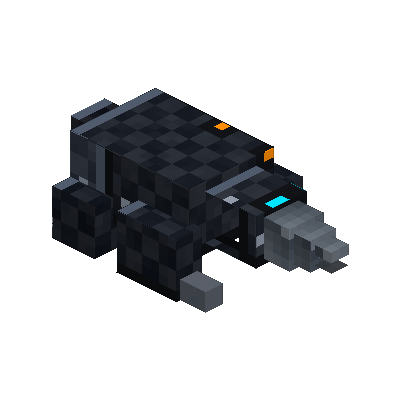
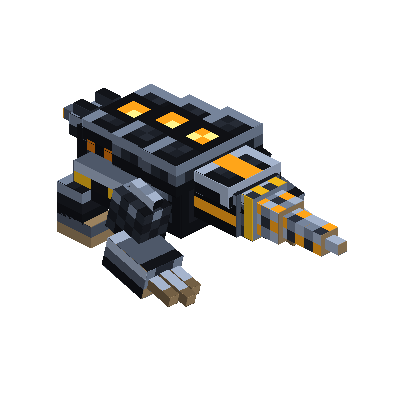
feat: bump version to 1.19.107, refactor Cyber Mole model and 128x128 texture, add animated GIF to README, and add gallery folder

Changed region(s): [[0.12, 0.21, 0.87, 0.78]]

diff --git a/src/client/java/com/fhfelipefh/sandstorm/client/renderer/CyberMoleModel.java b/src/client/java/com/fhfelipefh/sandstorm/client/renderer/CyberMoleModel.java
@@ -3,7 +3,6 @@ package com.fhfelipefh.sandstorm.client.renderer;
 import net.minecraft.client.model.EntityModel;
 import net.minecraft.client.model.geom.ModelPart;
 import net.minecraft.client.model.geom.PartPose;
-import net.minecraft.client.model.geom.builders.CubeDeformation;
 import net.minecraft.client.model.geom.builders.CubeListBuilder;
 import net.minecraft.client.model.geom.builders.LayerDefinition;
 import net.minecraft.client.model.geom.builders.MeshDefinition;
@@ -39,44 +38,65 @@ public class CyberMoleModel extends EntityModel<CyberMoleRenderState> {
         PartDefinition root = mesh.getRoot();
 
         PartDefinition body = root.addOrReplaceChild("body", CubeListBuilder.create()
-                .texOffs(0, 0).addBox(-5.0f, -4.0f, -7.0f, 10.0f, 7.0f, 14.0f)
-                .texOffs(0, 21).addBox(-5.2f, -5.5f, -6.5f, 10.4f, 2.0f, 13.0f, new CubeDeformation(0.1f)),
+                .texOffs(0, 0).addBox(-4.0f, -3.0f, -6.0f, 8.0f, 6.0f, 12.0f)
+                .texOffs(0, 19).addBox(-5.0f, -4.5f, -6.5f, 10.0f, 3.0f, 4.0f)
+                .texOffs(0, 27).addBox(-4.5f, -4.2f, -2.5f, 9.0f, 3.0f, 4.0f)
+                .texOffs(0, 35).addBox(-4.0f, -3.8f, 1.5f, 8.0f, 2.0f, 4.0f)
+                .texOffs(0, 42).addBox(4.0f, -1.0f, -4.5f, 2.0f, 3.0f, 9.0f)
+                .texOffs(0, 55).addBox(-6.0f, -1.0f, -4.5f, 2.0f, 3.0f, 9.0f)
+                .texOffs(0, 68).addBox(-3.0f, 2.8f, -5.0f, 6.0f, 1.0f, 10.0f),
                 PartPose.offset(0.0f, 18.0f, 0.0f));
 
         PartDefinition head = body.addOrReplaceChild("head", CubeListBuilder.create()
-                .texOffs(34, 0).addBox(-3.0f, -2.5f, -6.0f, 6.0f, 5.0f, 6.0f)
-                .texOffs(34, 11).addBox(-3.2f, -3.2f, -5.5f, 6.4f, 2.0f, 4.0f, new CubeDeformation(0.08f)),
-                PartPose.offset(0.0f, -0.5f, -7.0f));
+                .texOffs(42, 0).addBox(-2.5f, -2.0f, -5.0f, 5.0f, 4.0f, 5.0f)
+                .texOffs(42, 10).addBox(-3.0f, -2.8f, -4.6f, 6.0f, 2.0f, 4.0f)
+                .texOffs(42, 17).addBox(-2.0f, -1.2f, -5.4f, 4.0f, 1.0f, 1.0f)
+                .texOffs(42, 20).addBox(-2.0f, -2.0f, -6.4f, 4.0f, 4.0f, 2.0f),
+                PartPose.offset(0.0f, -0.5f, -6.0f));
 
         head.addOrReplaceChild("drill", CubeListBuilder.create()
-                .texOffs(48, 21).addBox(-2.0f, -2.0f, -3.0f, 4.0f, 4.0f, 3.0f)
-                .texOffs(50, 28).addBox(-1.5f, -1.5f, -5.0f, 3.0f, 3.0f, 2.0f)
-                .texOffs(52, 33).addBox(-1.0f, -1.0f, -7.0f, 2.0f, 2.0f, 2.0f),
-                PartPose.offset(0.0f, 0.0f, -6.0f));
+                .texOffs(64, 0).addBox(-1.5f, -1.5f, -2.5f, 3.0f, 3.0f, 3.0f)
+                .texOffs(64, 7).addBox(-1.0f, -1.0f, -5.0f, 2.0f, 2.0f, 3.0f)
+                .texOffs(64, 13).addBox(-1.0f, -1.0f, -7.0f, 2.0f, 2.0f, 2.0f)
+                .texOffs(64, 18).addBox(-0.5f, -0.5f, -8.5f, 1.0f, 1.0f, 2.0f),
+                PartPose.offset(0.0f, 0.0f, -6.4f));
 
         body.addOrReplaceChild("left_front_claw", CubeListBuilder.create()
-                .texOffs(0, 36).addBox(-1.0f, -1.0f, -4.0f, 3.0f, 6.0f, 7.0f)
-                .texOffs(20, 36).addBox(-0.5f, 3.0f, -7.0f, 2.0f, 2.0f, 4.0f),
-                PartPose.offset(5.5f, 0.5f, -4.0f));
+                .texOffs(78, 0).addBox(-0.5f, -1.5f, -1.5f, 3.0f, 4.0f, 4.0f)
+                .texOffs(78, 9).addBox(0.4f, -2.4f, -1.2f, 1.0f, 1.0f, 3.0f)
+                .texOffs(78, 14).addBox(0.2f, 1.5f, -4.5f, 4.0f, 3.0f, 5.0f)
+                .texOffs(78, 23).addBox(0.4f, 2.5f, -7.2f, 1.0f, 1.0f, 3.0f)
+                .texOffs(78, 28).addBox(1.6f, 2.4f, -8.0f, 1.0f, 1.0f, 4.0f)
+                .texOffs(78, 34).addBox(2.8f, 2.5f, -7.2f, 1.0f, 1.0f, 3.0f),
+                PartPose.offset(4.8f, 1.0f, -3.5f));
 
         body.addOrReplaceChild("right_front_claw", CubeListBuilder.create()
-                .texOffs(0, 36).mirror().addBox(-2.0f, -1.0f, -4.0f, 3.0f, 6.0f, 7.0f)
-                .texOffs(20, 36).mirror().addBox(-1.5f, 3.0f, -7.0f, 2.0f, 2.0f, 4.0f),
-                PartPose.offset(-5.5f, 0.5f, -4.0f));
+                .texOffs(98, 0).addBox(-2.5f, -1.5f, -1.5f, 3.0f, 4.0f, 4.0f)
+                .texOffs(98, 9).addBox(-1.4f, -2.4f, -1.2f, 1.0f, 1.0f, 3.0f)
+                .texOffs(98, 14).addBox(-4.2f, 1.5f, -4.5f, 4.0f, 3.0f, 5.0f)
+                .texOffs(98, 23).addBox(-1.4f, 2.5f, -7.2f, 1.0f, 1.0f, 3.0f)
+                .texOffs(98, 28).addBox(-2.6f, 2.4f, -8.0f, 1.0f, 1.0f, 4.0f)
+                .texOffs(98, 34).addBox(-3.8f, 2.5f, -7.2f, 1.0f, 1.0f, 3.0f),
+                PartPose.offset(-4.8f, 1.0f, -3.5f));
 
         body.addOrReplaceChild("left_hind_leg", CubeListBuilder.create()
-                .texOffs(32, 36).addBox(-1.0f, -1.0f, -2.5f, 3.0f, 5.0f, 5.0f),
-                PartPose.offset(5.2f, 1.5f, 4.5f));
+                .texOffs(36, 42).addBox(-0.5f, -1.0f, -1.5f, 3.0f, 3.0f, 3.0f)
+                .texOffs(36, 49).addBox(-0.5f, 1.8f, -2.5f, 3.0f, 2.0f, 4.0f),
+                PartPose.offset(4.5f, 2.0f, 4.0f));
 
         body.addOrReplaceChild("right_hind_leg", CubeListBuilder.create()
-                .texOffs(32, 36).mirror().addBox(-2.0f, -1.0f, -2.5f, 3.0f, 5.0f, 5.0f),
-                PartPose.offset(-5.2f, 1.5f, 4.5f));
+                .texOffs(52, 42).addBox(-2.5f, -1.0f, -1.5f, 3.0f, 3.0f, 3.0f)
+                .texOffs(52, 49).addBox(-2.5f, 1.8f, -2.5f, 3.0f, 2.0f, 4.0f),
+                PartPose.offset(-4.5f, 2.0f, 4.0f));
 
         body.addOrReplaceChild("exhaust", CubeListBuilder.create()
-                .texOffs(48, 37).addBox(-2.0f, -2.0f, 0.0f, 4.0f, 3.0f, 3.0f),
-                PartPose.offset(0.0f, -1.0f, 7.0f));
+                .texOffs(68, 42).addBox(-2.0f, -1.0f, 0.0f, 4.0f, 2.0f, 3.0f)
+                .texOffs(68, 48).addBox(0.8f, -2.0f, 0.8f, 1.0f, 1.0f, 2.0f)
+                .texOffs(68, 52).addBox(-1.8f, -2.0f, 0.8f, 1.0f, 1.0f, 2.0f)
+                .texOffs(68, 56).addBox(-0.5f, 0.0f, 2.2f, 1.0f, 1.0f, 3.0f),
+                PartPose.offset(0.0f, -1.0f, 6.0f));
 
-        return LayerDefinition.create(mesh, 64, 64);
+        return LayerDefinition.create(mesh, 128, 128);
     }
 
     @Override
@@ -134,4 +154,3 @@ public class CyberMoleModel extends EntityModel<CyberMoleRenderState> {
         this.rightHindLeg.xRot = Mth.cos(walkPos * 0.6662f) * 1.2f * walkSpeed;
     }
 }
-

diff --git a/src/test/java/com/fhfelipefh/sandstorm/architecture/DesertMobEcosystemArchitectureTest.java b/src/test/java/com/fhfelipefh/sandstorm/architecture/DesertMobEcosystemArchitectureTest.java
@@ -97,7 +97,7 @@ class DesertMobEcosystemArchitectureTest {
     void versionMustMatchCurrentRelease() throws IOException {
         Path gradleProps = Path.of("gradle.properties");
         String content = Files.readString(gradleProps);
-        assertTrue(content.contains("version=1.19.105"), "gradle.properties must be 1.19.105");
+        assertTrue(content.contains("version=1.19.107"), "gradle.properties must be 1.19.107");
     }
 
     @Test

diff --git a/src/test/java/com/fhfelipefh/sandstorm/architecture/VanillaNotificationSuppressionArchitectureTest.java b/src/test/java/com/fhfelipefh/sandstorm/architecture/VanillaNotificationSuppressionArchitectureTest.java
@@ -87,7 +87,7 @@ class VanillaNotificationSuppressionArchitectureTest {
     void versionMustBeBumpedTo11976() throws IOException {
         Path props = Path.of("gradle.properties");
         String content = Files.readString(props);
-        assertTrue(content.contains("version=1.19.105"), "gradle.properties must be 1.19.105");
+        assertTrue(content.contains("version=1.19.107"), "gradle.properties must be 1.19.107");
     }
 }
 

diff --git a/src/test/java/com/fhfelipefh/sandstorm/architecture/CompanionTrapAvoidanceArchitectureTest.java b/src/test/java/com/fhfelipefh/sandstorm/architecture/CompanionTrapAvoidanceArchitectureTest.java
@@ -86,6 +86,6 @@ class CompanionTrapAvoidanceArchitectureTest {
         Path gradleProps = Path.of("gradle.properties");
         assertTrue(Files.exists(gradleProps));
         String content = Files.readString(gradleProps);
-        assertTrue(content.contains("version=1.19.105"), "gradle.properties must be 1.19.105");
+        assertTrue(content.contains("version=1.19.107"), "gradle.properties must be 1.19.107");
     }
 }

diff --git a/src/test/java/com/fhfelipefh/sandstorm/architecture/WardenAndroidAndReactorArchitectureTest.java b/src/test/java/com/fhfelipefh/sandstorm/architecture/WardenAndroidAndReactorArchitectureTest.java
@@ -86,7 +86,7 @@ public class WardenAndroidAndReactorArchitectureTest {
     @Test
     public void testVersionBumped() throws IOException {
         String content = Files.readString(Path.of("gradle.properties"));
-        assertTrue(content.contains("version=1.19.105"), "Version must be bumped to 1.19.105");
+        assertTrue(content.contains("version=1.19.107"), "Version must be bumped to 1.19.107");
     }
 }
 

diff --git a/README.md b/README.md
@@ -192,7 +192,7 @@ As galerias abaixo apresentam prévias geradas a partir dos modelos e texturas d
   </tr>
   <tr>
     <td align="center" width="25%" valign="top">
-      <img src="docs/images/entities/cyber_mole.png" width="140" alt="Toupeira Perfuradora Cibernética"><br>
+      <img src="docs/images/entities/cyber_mole.gif" width="140" alt="Toupeira Perfuradora Cibernética"><br>
       <b>Toupeira Perfuradora Cibernética</b><br>
       <sub>Escavação Geológica & Emboscada de Subsolo</sub>
     </td>
